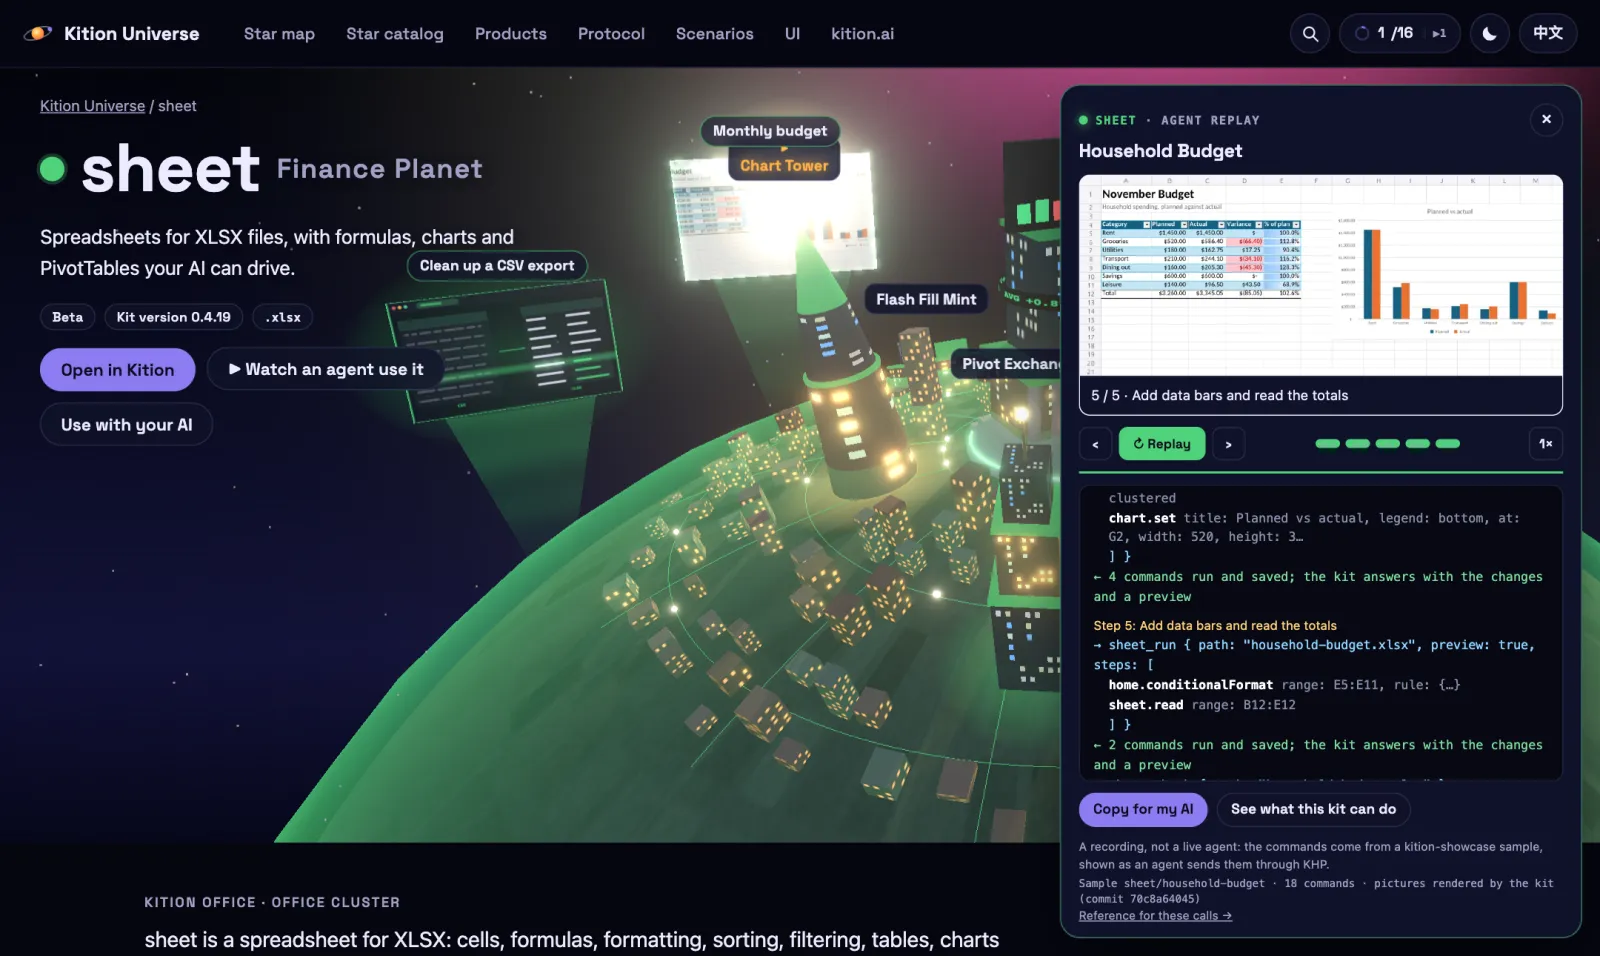
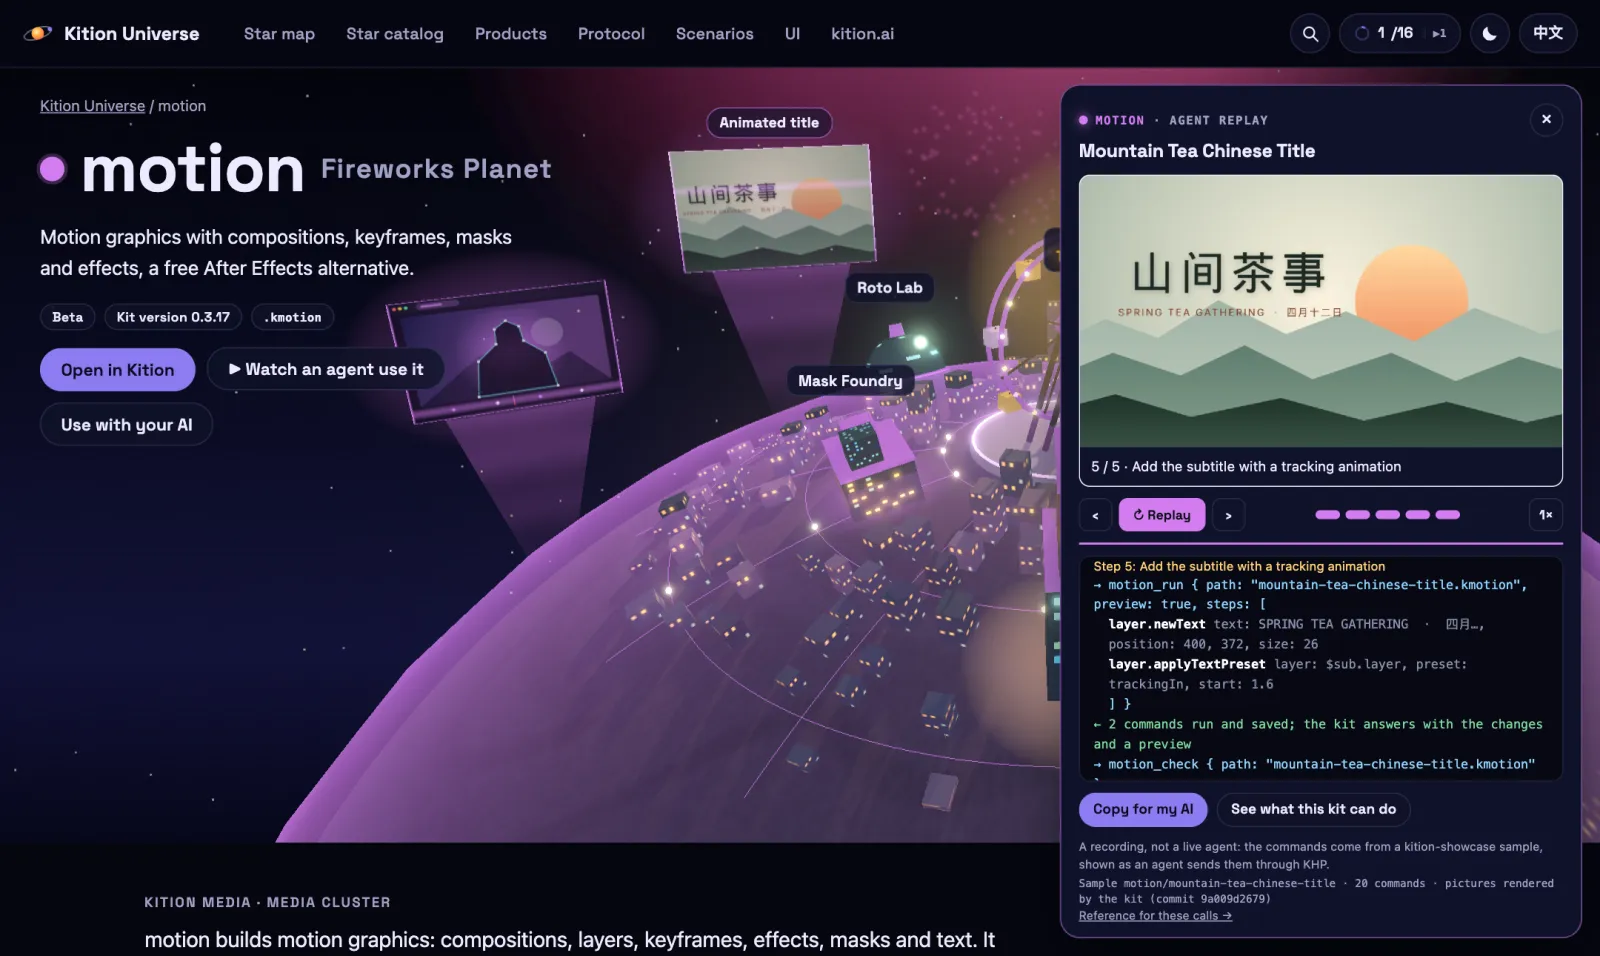
Kit order: motion first; README replay picture shows motion

diff --git a/src/lib/kits.ts b/src/lib/kits.ts
@@ -1,4 +1,4 @@
-// Public kit order, verified against Kition's kits/modules.json.
+// Public kit order: motion first (owner decision, 2026-11-15), then the order of Kition's kits/modules.json.
 // Keep browser progress, localized copy and data validation on the same list.
-export const KIT_IDS = ['note', 'table', 'board', 'photo', 'film', 'doc', 'sheet', 'slide', 'pdf', 'vector', 'layout', 'motion', 'cad', 'html', 'scene', 'design'] as const;
+export const KIT_IDS = ['motion', 'note', 'table', 'board', 'photo', 'film', 'doc', 'sheet', 'slide', 'pdf', 'vector', 'layout', 'cad', 'html', 'scene', 'design'] as const;
 export const KIT_COUNT = KIT_IDS.length;

diff --git a/README.vi.md b/README.vi.md
@@ -60,6 +60,7 @@ Mỗi kit là một hành tinh. Các kit ghi Preview vẫn đang được xây d
 
 | Kit | Chỉnh sửa gì | Tệp | Hành tinh |
 | --- | --- | --- | --- |
+| [**motion**](https://universe.kition.ai/planet/motion/) | Đồ họa chuyển động | `.kmotion` | Thế giới dung nham |
 | [**note**](https://universe.kition.ai/planet/note/) | Ghi chú Markdown liên kết với nhau | `.md` | Hành tinh khí khổng lồ |
 | [**table**](https://universe.kition.ai/planet/table/) | Bảng có cấu trúc với trường có kiểu và các chế độ xem | `.ktable` | Thế giới thành phố |
 | [**board**](https://universe.kition.ai/planet/board/) | Bảng trắng và sơ đồ tư duy | `.kboard` | Thế giới đại dương |
@@ -71,7 +72,6 @@ Mỗi kit là một hành tinh. Các kit ghi Preview vẫn đang được xây d
 | [**pdf**](https://universe.kition.ai/planet/pdf/) | Trang PDF, biểu mẫu và che nội dung | `.pdf` | Đá nhiều hố va chạm |
 | [**vector**](https://universe.kition.ai/planet/vector/) | Minh họa vector | `.kvector` | Thế giới pha lê |
 | [**layout**](https://universe.kition.ai/planet/layout/) · Preview | Dàn trang | `.klayout` | Thế giới cồn cát |
-| [**motion**](https://universe.kition.ai/planet/motion/) | Đồ họa chuyển động | `.kmotion` | Thế giới dung nham |
 | [**cad**](https://universe.kition.ai/planet/cad/) · Preview | Bản vẽ kỹ thuật 2D | `.dxf` | Đá nhiều hố va chạm |
 | [**html**](https://universe.kition.ai/planet/html/) · Preview | Trang web | `.html` | Thế giới bão |
 | [**scene**](https://universe.kition.ai/planet/scene/) · Preview | Cảnh 3D | `.kscene` | Thế giới đại dương |

diff --git a/README.ja.md b/README.ja.md
@@ -60,6 +60,7 @@ kit ひとつが惑星ひとつです。Preview と書かれた kit はまだ開
 
 | Kit | 編集するもの | ファイル | 惑星 |
 | --- | --- | --- | --- |
+| [**motion**](https://universe.kition.ai/planet/motion/) | モーショングラフィックス | `.kmotion` | 溶岩の惑星 |
 | [**note**](https://universe.kition.ai/planet/note/) | 互いにリンクする Markdown ノート | `.md` | ガス惑星 |
 | [**table**](https://universe.kition.ai/planet/table/) | 型付きフィールドとビューを持つ構造化テーブル | `.ktable` | 都市の惑星 |
 | [**board**](https://universe.kition.ai/planet/board/) | ホワイトボードとマインドマップ | `.kboard` | 海の惑星 |
@@ -71,7 +72,6 @@ kit ひとつが惑星ひとつです。Preview と書かれた kit はまだ開
 | [**pdf**](https://universe.kition.ai/planet/pdf/) | PDF のページ、フォーム、墨消し | `.pdf` | クレーターの岩石惑星 |
 | [**vector**](https://universe.kition.ai/planet/vector/) | ベクターイラスト | `.kvector` | 結晶の惑星 |
 | [**layout**](https://universe.kition.ai/planet/layout/) · Preview | ページレイアウト | `.klayout` | 砂丘の惑星 |
-| [**motion**](https://universe.kition.ai/planet/motion/) | モーショングラフィックス | `.kmotion` | 溶岩の惑星 |
 | [**cad**](https://universe.kition.ai/planet/cad/) · Preview | 2D 製図 | `.dxf` | クレーターの岩石惑星 |
 | [**html**](https://universe.kition.ai/planet/html/) · Preview | Web ページ | `.html` | 嵐の惑星 |
 | [**scene**](https://universe.kition.ai/planet/scene/) · Preview | 3D シーン | `.kscene` | 海の惑星 |

diff --git a/README.es.md b/README.es.md
@@ -60,6 +60,7 @@ Cada kit es un planeta. Los kits marcados como Preview siguen en construcción, 
 
 | Kit | Qué edita | Archivo | Su planeta |
 | --- | --- | --- | --- |
+| [**motion**](https://universe.kition.ai/planet/motion/) | Gráficos en movimiento | `.kmotion` | Mundo de lava |
 | [**note**](https://universe.kition.ai/planet/note/) | Notas en Markdown enlazadas entre sí | `.md` | Gigante gaseoso |
 | [**table**](https://universe.kition.ai/planet/table/) | Tablas estructuradas con campos tipados y vistas | `.ktable` | Mundo ciudad |
 | [**board**](https://universe.kition.ai/planet/board/) | Pizarras y mapas mentales | `.kboard` | Mundo océano |
@@ -71,7 +72,6 @@ Cada kit es un planeta. Los kits marcados como Preview siguen en construcción, 
 | [**pdf**](https://universe.kition.ai/planet/pdf/) | Páginas PDF, formularios y censura de texto | `.pdf` | Roca con cráteres |
 | [**vector**](https://universe.kition.ai/planet/vector/) | Ilustración vectorial | `.kvector` | Mundo de cristal |
 | [**layout**](https://universe.kition.ai/planet/layout/) · Preview | Maquetación | `.klayout` | Mundo de dunas |
-| [**motion**](https://universe.kition.ai/planet/motion/) | Gráficos en movimiento | `.kmotion` | Mundo de lava |
 | [**cad**](https://universe.kition.ai/planet/cad/) · Preview | Dibujo técnico 2D | `.dxf` | Roca con cráteres |
 | [**html**](https://universe.kition.ai/planet/html/) · Preview | Páginas web | `.html` | Mundo de tormentas |
 | [**scene**](https://universe.kition.ai/planet/scene/) · Preview | Escenas 3D | `.kscene` | Mundo océano |

diff --git a/README.fr.md b/README.fr.md
@@ -60,6 +60,7 @@ Chaque kit est une planète. Les kits marqués Preview sont encore en constructi
 
 | Kit | Ce qu’il édite | Fichier | Sa planète |
 | --- | --- | --- | --- |
+| [**motion**](https://universe.kition.ai/planet/motion/) | Animation graphique | `.kmotion` | Monde de lave |
 | [**note**](https://universe.kition.ai/planet/note/) | Notes Markdown reliées entre elles | `.md` | Géante gazeuse |
 | [**table**](https://universe.kition.ai/planet/table/) | Tables structurées avec champs typés et vues | `.ktable` | Monde-ville |
 | [**board**](https://universe.kition.ai/planet/board/) | Tableaux blancs et cartes mentales | `.kboard` | Monde océan |
@@ -71,7 +72,6 @@ Chaque kit est une planète. Les kits marqués Preview sont encore en constructi
 | [**pdf**](https://universe.kition.ai/planet/pdf/) | Pages PDF, formulaires et caviardage | `.pdf` | Roche à cratères |
 | [**vector**](https://universe.kition.ai/planet/vector/) | Illustration vectorielle | `.kvector` | Monde de cristal |
 | [**layout**](https://universe.kition.ai/planet/layout/) · Preview | Mise en page | `.klayout` | Monde de dunes |
-| [**motion**](https://universe.kition.ai/planet/motion/) | Animation graphique | `.kmotion` | Monde de lave |
 | [**cad**](https://universe.kition.ai/planet/cad/) · Preview | Dessins techniques 2D | `.dxf` | Roche à cratères |
 | [**html**](https://universe.kition.ai/planet/html/) · Preview | Pages web | `.html` | Monde de tempêtes |
 | [**scene**](https://universe.kition.ai/planet/scene/) · Preview | Scènes 3D | `.kscene` | Monde océan |

diff --git a/README.de.md b/README.de.md
@@ -60,6 +60,7 @@ Jedes Kit ist ein Planet. Kits mit dem Vermerk Preview sind noch im Bau, ihre Pl
 
 | Kit | Was es bearbeitet | Datei | Sein Planet |
 | --- | --- | --- | --- |
+| [**motion**](https://universe.kition.ai/planet/motion/) | Motion Graphics | `.kmotion` | Lavawelt |
 | [**note**](https://universe.kition.ai/planet/note/) | Markdown-Notizen, die aufeinander verweisen | `.md` | Gasriese |
 | [**table**](https://universe.kition.ai/planet/table/) | Strukturierte Tabellen mit typisierten Feldern und Ansichten | `.ktable` | Stadtwelt |
 | [**board**](https://universe.kition.ai/planet/board/) | Whiteboards und Mindmaps | `.kboard` | Ozeanwelt |
@@ -71,7 +72,6 @@ Jedes Kit ist ein Planet. Kits mit dem Vermerk Preview sind noch im Bau, ihre Pl
 | [**pdf**](https://universe.kition.ai/planet/pdf/) | PDF-Seiten, Formulare und Schwärzung | `.pdf` | Kraterfels |
 | [**vector**](https://universe.kition.ai/planet/vector/) | Vektorillustration | `.kvector` | Kristallwelt |
 | [**layout**](https://universe.kition.ai/planet/layout/) · Preview | Seitenlayout | `.klayout` | Dünenwelt |
-| [**motion**](https://universe.kition.ai/planet/motion/) | Motion Graphics | `.kmotion` | Lavawelt |
 | [**cad**](https://universe.kition.ai/planet/cad/) · Preview | 2D-Zeichnungen | `.dxf` | Kraterfels |
 | [**html**](https://universe.kition.ai/planet/html/) · Preview | Webseiten | `.html` | Sturmwelt |
 | [**scene**](https://universe.kition.ai/planet/scene/) · Preview | 3D-Szenen | `.kscene` | Ozeanwelt |

diff --git a/README.md b/README.md
@@ -60,6 +60,7 @@ Each kit is one planet. Kits marked Preview are still under construction, and th
 
 | Kit | What it edits | File | Its planet |
 | --- | --- | --- | --- |
+| [**motion**](https://universe.kition.ai/planet/motion/) | Motion graphics | `.kmotion` | Lava world |
 | [**note**](https://universe.kition.ai/planet/note/) | Markdown notes that link to each other | `.md` | Gas giant |
 | [**table**](https://universe.kition.ai/planet/table/) | Structured tables with typed fields and views | `.ktable` | City world |
 | [**board**](https://universe.kition.ai/planet/board/) | Whiteboards and mind maps | `.kboard` | Ocean world |
@@ -71,7 +72,6 @@ Each kit is one planet. Kits marked Preview are still under construction, and th
 | [**pdf**](https://universe.kition.ai/planet/pdf/) | PDF pages, forms and redaction | `.pdf` | Cratered rock |
 | [**vector**](https://universe.kition.ai/planet/vector/) | Vector illustration | `.kvector` | Crystal world |
 | [**layout**](https://universe.kition.ai/planet/layout/) · Preview | Page layout | `.klayout` | Dune world |
-| [**motion**](https://universe.kition.ai/planet/motion/) | Motion graphics | `.kmotion` | Lava world |
 | [**cad**](https://universe.kition.ai/planet/cad/) · Preview | 2D technical drawings | `.dxf` | Cratered rock |
 | [**html**](https://universe.kition.ai/planet/html/) · Preview | Web pages | `.html` | Storm world |
 | [**scene**](https://universe.kition.ai/planet/scene/) · Preview | 3D scenes | `.kscene` | Ocean world |

diff --git a/README.zh-CN.md b/README.zh-CN.md
@@ -60,6 +60,7 @@ Kition Universe 让你一眼看清这一切。它回答三个问题：每个 kit
 
 | Kit | 编辑什么 | 文件 | 它的星球 |
 | --- | --- | --- | --- |
+| [**motion**](https://universe.kition.ai/planet/motion/) | 动态图形 | `.kmotion` | 熔岩星球 |
 | [**note**](https://universe.kition.ai/planet/note/) | 互相链接的 Markdown 笔记 | `.md` | 气态巨行星 |
 | [**table**](https://universe.kition.ai/planet/table/) | 带字段类型和视图的结构化表格 | `.ktable` | 城市星球 |
 | [**board**](https://universe.kition.ai/planet/board/) | 白板和思维导图 | `.kboard` | 海洋星球 |
@@ -71,7 +72,6 @@ Kition Universe 让你一眼看清这一切。它回答三个问题：每个 kit
 | [**pdf**](https://universe.kition.ai/planet/pdf/) | PDF 页面、表单和涂黑 | `.pdf` | 陨石坑岩石星 |
 | [**vector**](https://universe.kition.ai/planet/vector/) | 矢量插画 | `.kvector` | 晶体星球 |
 | [**layout**](https://universe.kition.ai/planet/layout/) · Preview | 版式排版 | `.klayout` | 沙丘星球 |
-| [**motion**](https://universe.kition.ai/planet/motion/) | 动态图形 | `.kmotion` | 熔岩星球 |
 | [**cad**](https://universe.kition.ai/planet/cad/) · Preview | 二维工程制图 | `.dxf` | 陨石坑岩石星 |
 | [**html**](https://universe.kition.ai/planet/html/) · Preview | 网页 | `.html` | 风暴星球 |
 | [**scene**](https://universe.kition.ai/planet/scene/) · Preview | 三维场景 | `.kscene` | 海洋星球 |

diff --git a/docs/DEVELOPMENT.md b/docs/DEVELOPMENT.md
@@ -196,8 +196,8 @@ rendered after each group of commands. It is a recording, never a live model, an
 
 ## Rules this repo keeps
 
-- Kit order is fixed: note, table, board, photo, film, doc, sheet, slide, pdf,
-  vector, layout, motion, cad, html, scene, design. `scripts/check-data.mjs` enforces it.
+- Kit order is fixed: motion, note, table, board, photo, film, doc, sheet, slide, pdf,
+  vector, layout, cad, html, scene, design. motion comes first. `scripts/check-data.mjs` enforces it.
 - layout, cad, html and design are Preview and are drawn under construction (scaffolding).
 - Trademarks (Photoshop, AutoCAD, ...) appear only in comparison copy, never in
   planet or building names.
